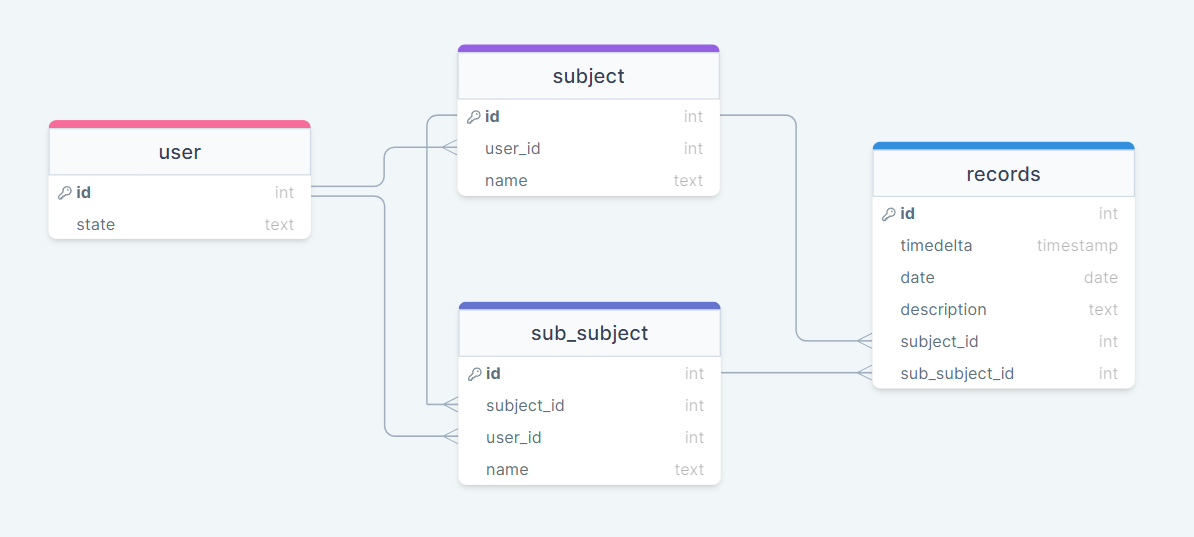
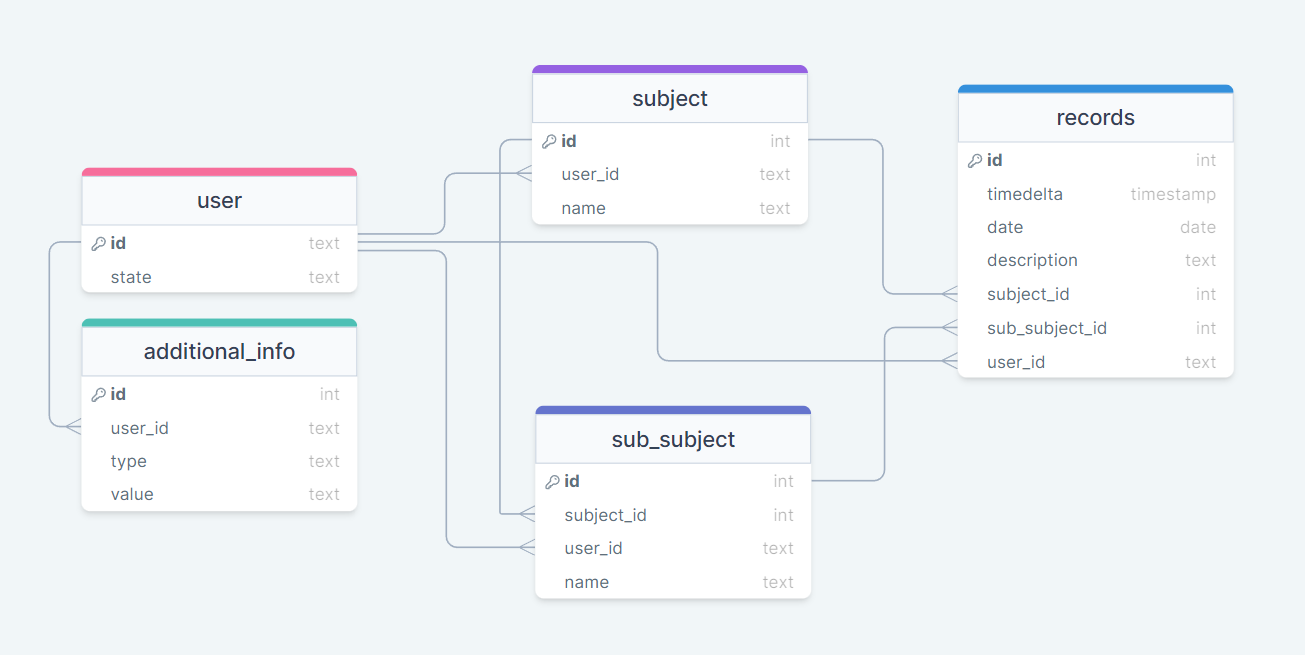
+ new table in db

diff --git a/database/models.py b/database/models.py
@@ -12,9 +12,22 @@ class User(Base):
 
     subjects = relationship("Subject", back_populates="user", foreign_keys="Subject.user_id")
     subsubjects = relationship("SubSubject", back_populates="user", foreign_keys="SubSubject.user_id")
+    additional_info = relationship("AdditionalInfo", back_populates="user", foreign_keys="AdditionalInfo.user_id")
+    records = relationship("Records", back_populates="user", foreign_keys="Records.user_id")
 
     def __repr__(self):
         return f"<User({self.id} {self.name})>"
+
+
+class AdditionalInfo(Base):
+    __tablename__ = 'additional_info'
+
+    id = Column(Integer, nullable=False, unique=True, primary_key=True, autoincrement=True)
+    user_id = Column(String(9), ForeignKey("user.id", ondelete="CASCADE"), nullable=False)
+    type = Column(String(15))
+    value = Column(String(20))
+
+    user = relationship("User", back_populates="additional_info", uselist=False)
 
 
 class Subject(Base):
@@ -55,12 +68,14 @@ class Records(Base):
     __tablename__ = "records"
 
     id = Column(Integer, nullable=False, unique=True, primary_key=True, autoincrement=True)
+    user_id = Column(String(9), ForeignKey("user.id", ondelete="CASCADE"), nullable=False)
     timedelta = Column(Time, nullable=False)
     date = Column(Date, nullable=False)
     description = Column(Text(300))
     subject_id = Column(Integer, ForeignKey("subject.id", ondelete="CASCADE"), nullable=False)
     sub_subject_id = Column(Integer, ForeignKey("sub_subject.id", ondelete="CASCADE"), nullable=False)
 
+    user = relationship("User", back_populates="records", uselist=False)
     subject = relationship("Subject", back_populates="records", uselist=False)
     subsubject = relationship("SubSubject", back_populates="records", uselist=False)
 
